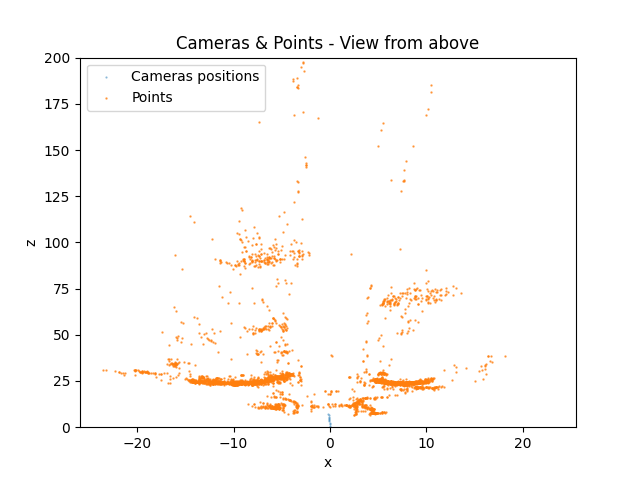
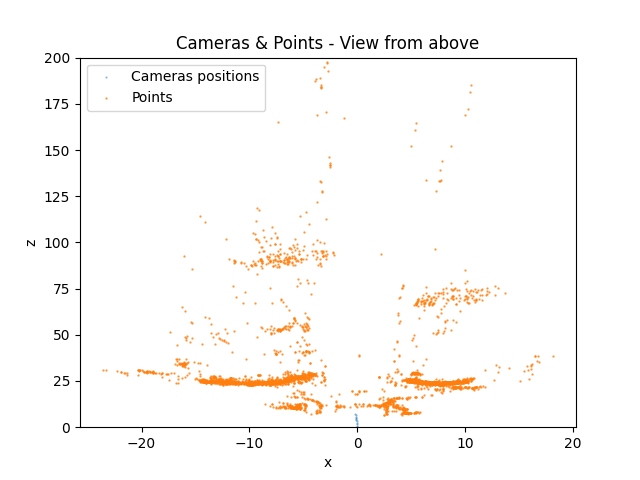
ex5 - almost done

diff --git a/VAN_ex/code/ex5.py b/VAN_ex/code/ex5.py
@@ -6,12 +6,23 @@ from matplotlib import pyplot as plt
 import utils
 import plotly.graph_objs as go
 from DB.DataBase import DataBase
-from BundleAdjustment.BundleWindow import BundleWindow
-import BundleAdjustment.BundleWindow
+# from Bundle import BundleWindow
+from Bundle.BundleAdjustment import BundleAdjustment
+# import Bundle
+# from Bundle.BundleWindow import BundleWindow
+# import Bundle.BundleWindow
+# from Bundle.Bundle import Bundle
+# from Bundle import BundleWindow
+from VAN_ex.code.Bundle.BundleWindow import BundleWindow
 
 OUTPUT_DIR = 'results/ex5/'
 os.makedirs(OUTPUT_DIR, exist_ok=True)
 
+def create_intrinsic_mat():
+    k, _, m_right = utils.read_cameras()
+    indentation_right_cam = m_right[0][3]
+    K = gtsam.Cal3_S2Stereo(k[0][0], k[1][1], k[0][1], k[0][2], k[1][2], -indentation_right_cam)
+    return K
 
 def _add_pixels(grid, measurement_pixel, color, label):
     grid[0].scatter(measurement_pixel[0], measurement_pixel[2], s=15, c=color, label=label)
@@ -64,7 +75,7 @@ def reprojection_error_gtsam(db):
         pt_2d_real = real_pts_2d[i]
         diff = pt_2d_real - pt_2d_proj
         diff = np.array([diff.uL(), diff.uR(), diff.v()])
-        reprojection_error[i] = np.linalg.norm(diff)  # todo - check what is the factor error
+        reprojection_error[i] = np.linalg.norm(diff)
 
         factor = gtsam.GenericStereoFactor3D \
             (pt_2d_real, cov, gtsam.symbol('c', i), gtsam.symbol('q', track.get_id()), BundleWindow.K)
@@ -88,7 +99,7 @@ def create_frames_cameras_and_pixels_from_track(db, track):
     frames_cameras = []
     real_pts_2d = []
     frames_dict = track.get_frames_dict()
-    K = BundleAdjustment.BundleWindow.create_intrinsic_mat()
+    K = create_intrinsic_mat()
     concat_r = np.identity(3)
     concat_t = np.zeros(3)
     is_first_frame = True
@@ -140,14 +151,50 @@ def run_ex5():
     bundle_window.plot_3d_positions_graph(f'{OUTPUT_DIR}resulting_3d_positions.png')
     bundle_window.plot_2d_positions_graph(f'{OUTPUT_DIR}resulting_2d_positions.png')
 
-    # print(bundle_window.get_frame_position(0))
-    # print(bundle_window.get_prior_factor_error())
-
     # 5.3
+    ground_truth_matrices = utils.read_matrices("/cs/usr/nava.goetschel/SLAM/VAN_ex/dataset/poses/05.txt")
+    ground_truth_locations = utils.calculate_ground_truth_locations_from_matrices(ground_truth_matrices)
+    alg = BundleAdjustment(2560, 10, db)
+    alg.optimize_all_windows()
+
+    last_window = alg.get_last_window()
+    print("Final position of first frame of last window: ", last_window.get_frame_location(last_window.get_first_keyframe_id()))
+    print("Prior factor error of last window: ", last_window.get_prior_factor_error())
+
+    global_poses = alg.get_global_keyframes_poses()
+    global_locations = BundleAdjustment.from_poses_to_locations(global_poses)
+    global_3d_points = alg.get_global_3d_points(global_poses)
+
+    fig, ax = plt.subplots()
+    ax.scatter(x=global_locations[:, 0], y=global_locations[:, 2],
+               c='tab:blue', label='Keyframes positions', s=3, alpha=1)
+    ax.scatter(x=global_3d_points[:, 0], y=global_3d_points[:, 2],
+               c='tab:orange', label='Points', s=0.1, alpha=0.1)
+    ax.scatter(x=ground_truth_locations[:, 0], y=ground_truth_locations[:, 2],
+               c='tab:green', label='Ground Truth Locations', s=0.5, alpha=0.7)
+    # ax.set_ylim(0, 200)
+    ax.set_ylim(-200, 200)
+    ax.set_xlim(-300, 300)
+    ax.legend()
+    plt.title('Cameras & Points - View from above')
+    plt.xlabel('x')
+    plt.ylabel('z')
+    plt.savefig(f'{OUTPUT_DIR}Key frames after optimization.png')
 
 
+    keyframes = alg.get_keyframes()
+    keyframe_localization_error = np.sum((ground_truth_locations[keyframes] - global_locations)**2, axis=-1)**0.5
+
+    fig = go.Figure()
+    fig.add_trace(
+        go.Scatter(x=keyframes, y=keyframe_localization_error, mode='lines+markers'))
+    fig.update_layout(title="Keyframe localization error over time",
+                      xaxis_title='Keyframe id', yaxis_title='localization error')
+    fig.write_image(f"{OUTPUT_DIR}localization error over time.png")
 
     return 0
+
+
 
 
 run_ex5()

diff --git a/VAN_ex/code/Bundle/BundleWindow.py b/VAN_ex/code/Bundle/BundleWindow.py
@@ -11,17 +11,16 @@ CAMERA_SYMBOL = 'c'
 POINT_SYMBOL = 'q'
 
 
-def create_intrinsic_mat():
-    k, _, m_right = utils.read_cameras()
-    indentation_right_cam = m_right[0][3]
-    K = gtsam.Cal3_S2Stereo(k[0][0], k[1][1], k[0][1], k[0][2], k[1][2], -indentation_right_cam)
-    return K
+
 
 
 class BundleWindow:
-    K = create_intrinsic_mat()
+    k, _, m_right = utils.read_cameras()
+    indentation_right_cam = m_right[0][3]
+    K = gtsam.Cal3_S2Stereo(k[0][0], k[1][1], k[0][1], k[0][2], k[1][2], -indentation_right_cam)
 
     def __init__(self, db, first_keyframe_id, last_keyframe_id):
+        # print(f'window {first_keyframe_id} - {last_keyframe_id}')
         self._db = db
         self._first_keyframe_id = first_keyframe_id
         self._last_keyframe_id = last_keyframe_id
@@ -29,7 +28,7 @@ class BundleWindow:
         self._initial_estimate = self._init_initial_estimate()
         self._current_values = self._initial_estimate  # before optimization - current values is initial estimate
         self._factors = self._init_factors()
-        self._prior_factor = gtsam.PriorFactorPose3(gtsam.symbol(CAMERA_SYMBOL, 0), gtsam.Pose3(), gtsam.noiseModel.Unit.Create(6))
+        self._prior_factor = gtsam.PriorFactorPose3(gtsam.symbol(CAMERA_SYMBOL, first_keyframe_id), gtsam.Pose3(), gtsam.noiseModel.Unit.Create(6))
         self._graph = self._init_graph()
         self._optimizer = gtsam.LevenbergMarquardtOptimizer(self._graph, self._initial_estimate)
 
@@ -78,14 +77,15 @@ class BundleWindow:
     def _init_factors(self):
         factors = dict()
         cov = gtsam.noiseModel.Isotropic.Sigma(3, 1.0)
+
         for track_id in self._tracks:
             track_obj = self._db.get_track_obj(track_id)
             frames_dict = track_obj.get_frames_dict()
             for frame_id, kp_idx in frames_dict.items():
-                if frame_id > self._last_keyframe_id:
-                    break
+                if frame_id > self._last_keyframe_id or frame_id < self._first_keyframe_id:
+                    continue
                 pt_2d_real = utils.get_stereo_point2(self._db, frame_id, kp_idx)
-
+                # print(f"add factor : frame_id-{frame_id}, track_id-{track_id}")
                 factor = gtsam.GenericStereoFactor3D \
                     (pt_2d_real, cov, gtsam.symbol(CAMERA_SYMBOL, frame_id), gtsam.symbol(POINT_SYMBOL, track_id),
                      BundleWindow.K)
@@ -100,6 +100,7 @@ class BundleWindow:
         return graph
 
     def _init_initial_estimate_points(self, values):
+        updated_tracks = set()
         for track_id in self._tracks:
             track_obj = self._db.get_track_obj(track_id)
             last_frame_id, _ = track_obj.get_last_frame_id_and_kp_idx()
@@ -109,9 +110,18 @@ class BundleWindow:
             last_kp_idx = track_obj.get_kp_idx_of_frame(last_frame_id)
             pt_2d = utils.get_stereo_point2(self._db, last_frame_id, last_kp_idx)
             pt_3d = last_frame_stereo_cam.backproject(pt_2d)
-            values.insert(gtsam.symbol(POINT_SYMBOL, track_id), pt_3d)
+
+            if pt_3d[2] <= 0 or pt_3d[2] >= 300:
+                continue
+            else:
+                values.insert(gtsam.symbol(POINT_SYMBOL, track_id), pt_3d)
+                updated_tracks.add(track_id)
+        self._tracks = updated_tracks
 
     def optimize(self):
+        # print(len(self._tracks))
+        # print(len(self._factors.keys()))
+        # print(len(self._current_values.keys()))
         self._current_values = self._optimizer.optimize()
         return self._current_values  # returns values object
 

diff --git a/VAN_ex/code/Bundle/BundleAdjustment.py b/VAN_ex/code/Bundle/BundleAdjustment.py
@@ -1,7 +1,8 @@
 import gtsam
 import numpy as np
 
-from BundleWindow import BundleWindow
+# from BundleWindow import BundleWindow
+from VAN_ex.code.Bundle.BundleWindow import BundleWindow
 
 
 class BundleAdjustment:
@@ -21,20 +22,26 @@ class BundleAdjustment:
 
     def _init_bundle_windows(self):
         bundle_windows = dict()
-        for first_keyframe in range(0, self._frames_num, self._window_len):
-            last_key_frame = min(first_keyframe + self._window_len, self._frames_num - 1)
+        for first_keyframe in range(0, self._frames_num, self._window_len-1):
+            last_key_frame = min(first_keyframe + self._window_len - 1, self._frames_num - 1)
             bundle_windows[first_keyframe] = BundleWindow(self._db, first_keyframe, last_key_frame)
         return bundle_windows
 
+    def get_keyframes(self):
+        keyframes = list(self._bundle_windows.keys())
+        keyframes.append(self._frames_num - 1)
+        return np.array(keyframes)
+
     def optimize_all_windows(self):
         for window in self._bundle_windows.values():
+            # print(f'optimize window {window.get_first_keyframe_id()} - {window.get_last_keyframe_id()}')
             window.optimize()
 
     def get_global_keyframes_poses(self):
         poses = dict()  # key = keyframe, val = pose
-        poses[0] = gtsam.pose3()
+        poses[0] = gtsam.Pose3()
         for first_keyframe, window in self._bundle_windows.items():
-            last_keyframe = min(first_keyframe + self._window_len, self._frames_num - 1)
+            last_keyframe = min(first_keyframe + self._window_len - 1, self._frames_num - 1)
             global_pose_last_keyframe = poses[first_keyframe] * window.get_frame_pose3(last_keyframe)
             poses[last_keyframe] = global_pose_last_keyframe
         return poses
@@ -47,5 +54,11 @@ class BundleAdjustment:
             points_of_window = window.get_points()
             for pt in points_of_window:
                 pt_global = pose3.transformFrom(pt)
-                points_list.append([pt_global.x(), pt_global.y(), pt_global.z()])
+                points_list.append(pt_global)
         return np.array(points_list)
+
+    def get_last_window(self):
+        max_frame_key = max(self._bundle_windows.keys())
+        return self._bundle_windows[max_frame_key]
+
+
